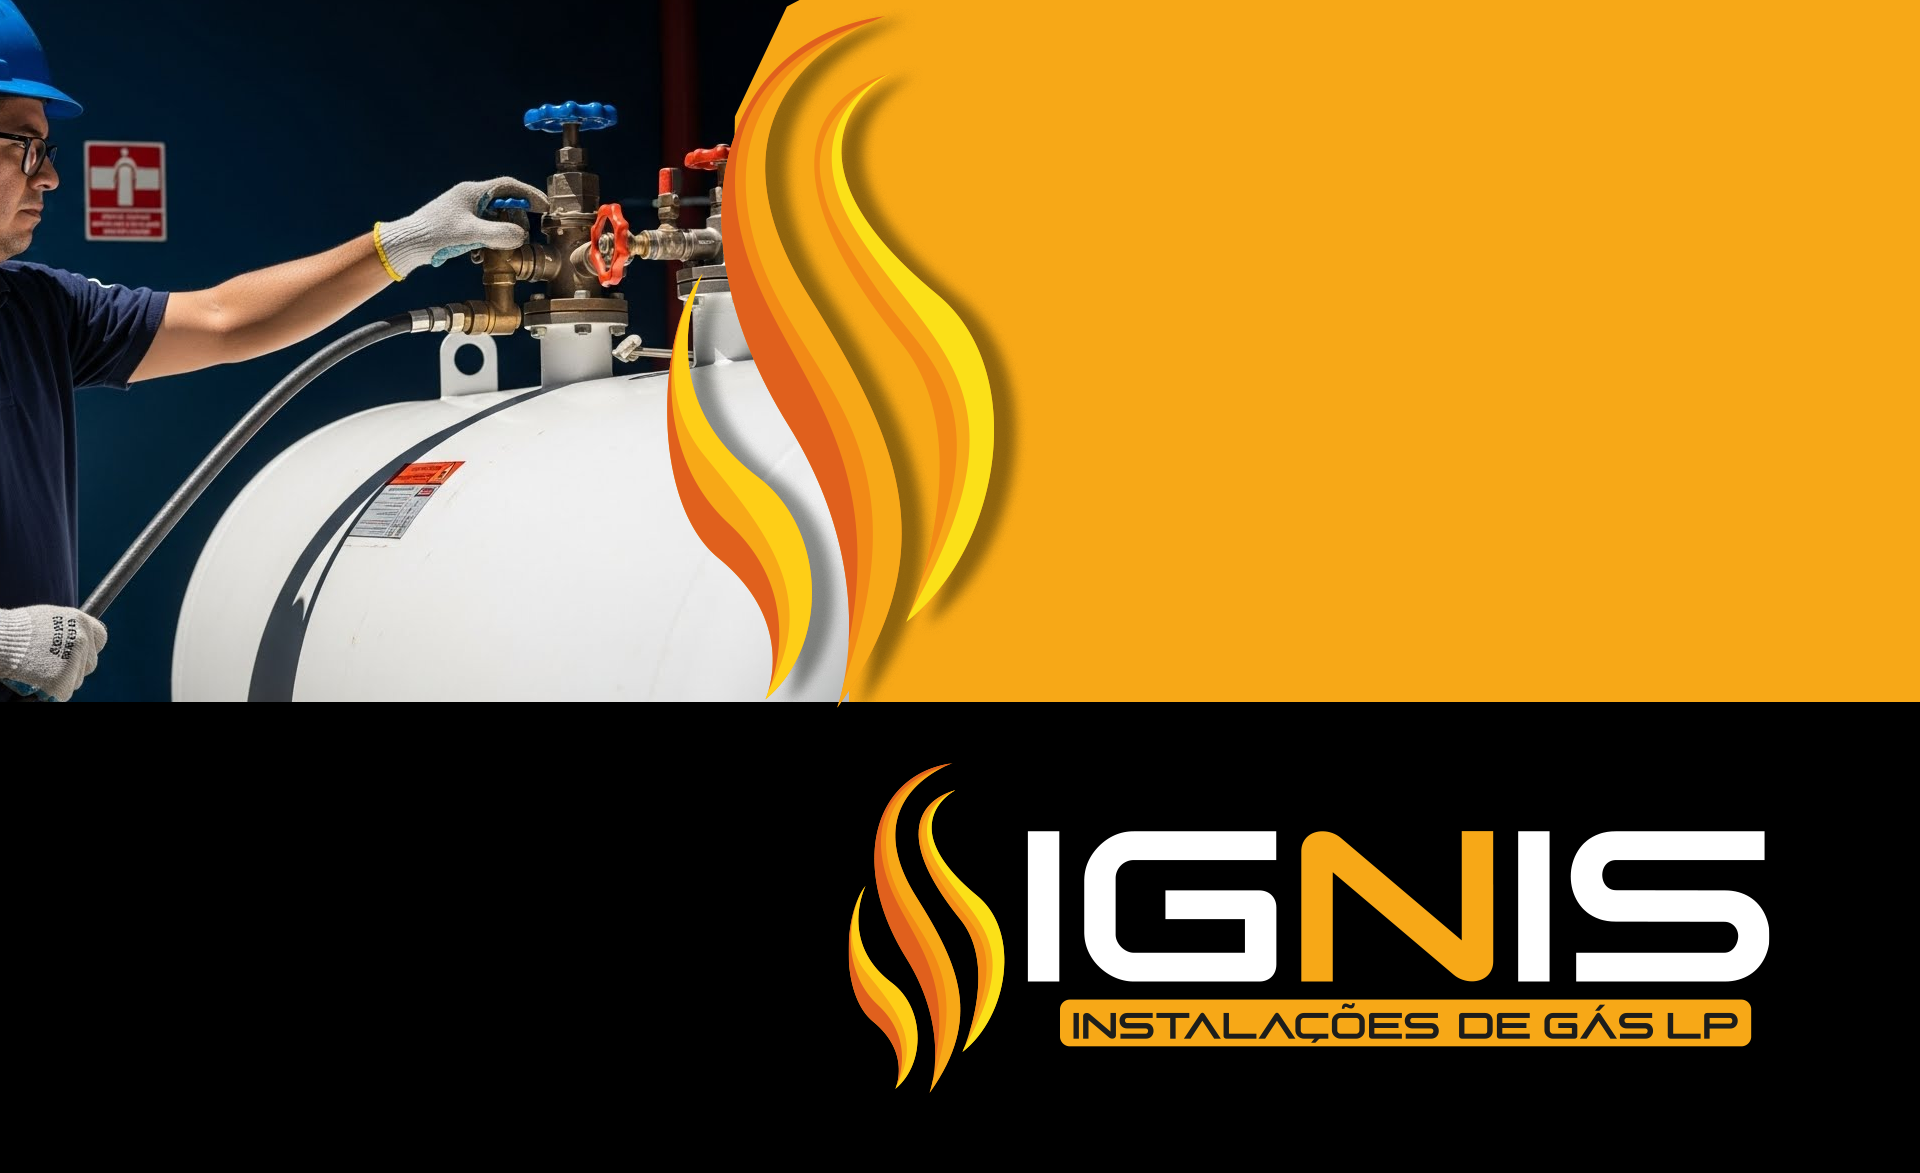
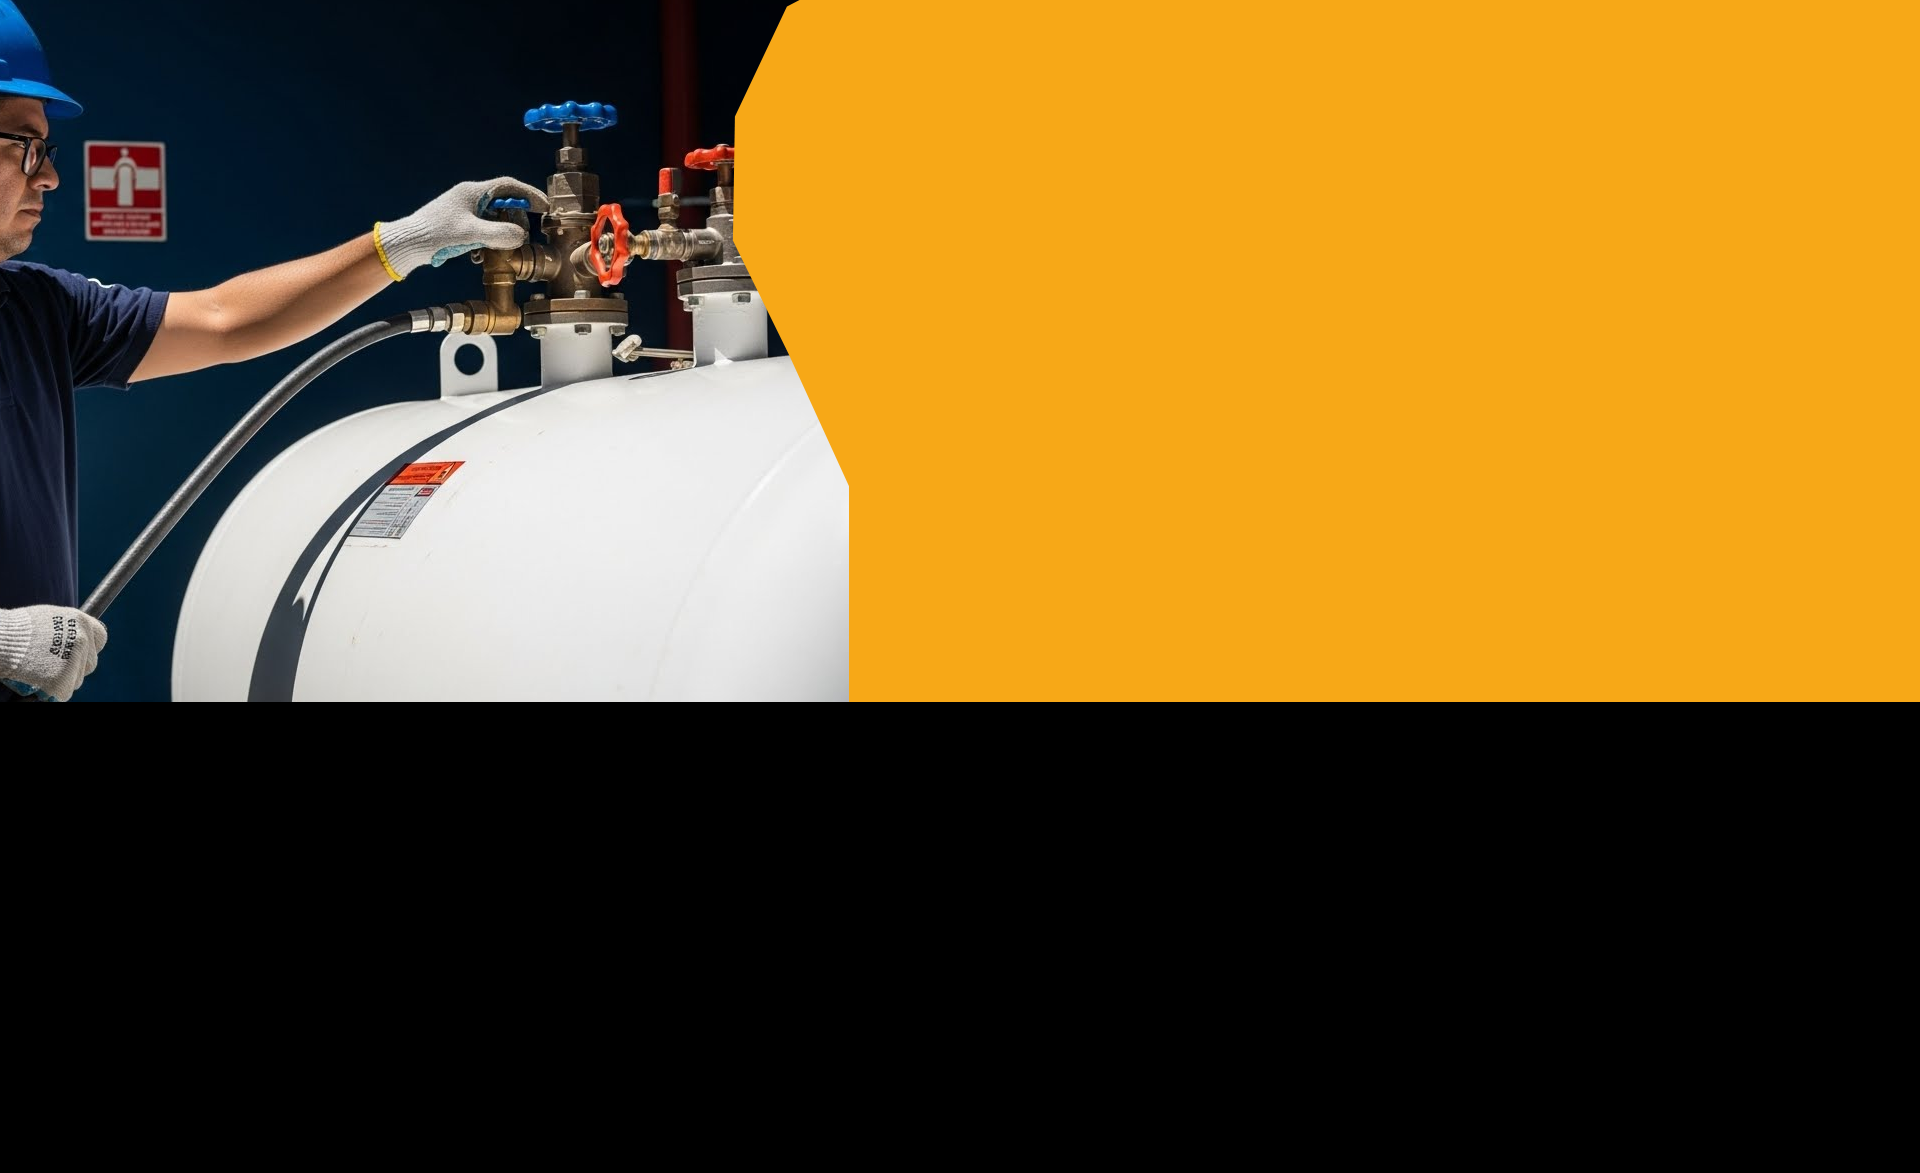
feat: Add flame image and update call-to-action text with refined styling in the final section.

Changed region(s): [[0.4375, 0.6445, 0.9375, 0.9207], [0.3438, 0.0, 0.5312, 0.6138]]

diff --git a/style.css b/style.css
@@ -674,6 +674,19 @@ ul {
     width: 100%;
 }
 
+.final-flame {
+    position: absolute;
+    top: 30%;
+    left: 45%;
+    /* Adjusted to match the separator position */
+    height: 70%;
+    /* Taller to overflow like in the image */
+    width: auto;
+    z-index: 5;
+    transform: translate(-50%, -48%);
+    pointer-events: none;
+}
+
 .final-bg {
     width: 100%;
     display: block;
@@ -683,7 +696,7 @@ ul {
 .final-text-overlay {
     position: absolute;
     top: 28%;
-    right: 10%;
+    right: 5%;
     transform: translateY(-50%);
     text-align: left;
     display: flex;
@@ -696,11 +709,13 @@ ul {
     font-family: 'Outfit', sans-serif;
     color: #000;
     /* Black color as per the reference image */
-    font-size: 5.5rem;
-    font-weight: 900;
+    font-size: 4.8rem;
+    font-weight: 800;
+    /* Slightly refined weight */
     line-height: 1.1;
+    /* Adjusted for better readability */
     text-transform: none;
-    letter-spacing: -3px;
+    letter-spacing: -1px;
     margin: 0;
 }
 

diff --git a/index.html b/index.html
@@ -142,8 +142,9 @@
     <section class="final-section">
         <div class="final-top">
             <img src="img/final.png" alt="" class="final-bg">
+            <img src="img/fogo.png" alt="" class="final-flame">
             <div class="final-text-overlay">
-                <h2>Chame<br>agora no<br>Whatsapp</h2>
+                <h2>Solicite agora<br>um Orçamento<br>sem compromisso</h2>
             </div>
         </div>
         <div class="final-bottom">
